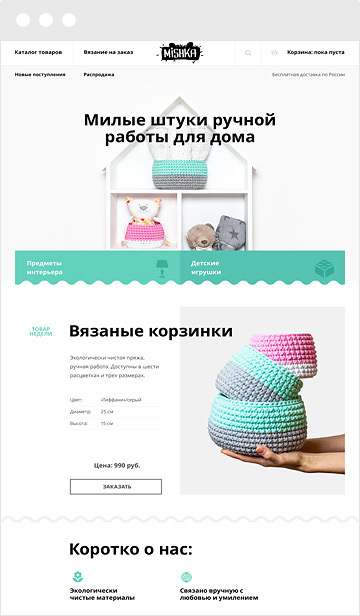
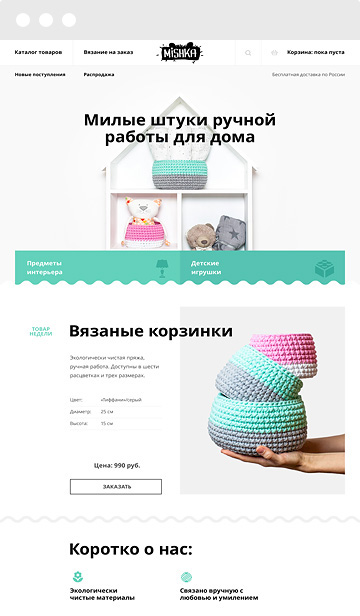
Финальные дополнения

diff --git a/css/style.css b/css/style.css
@@ -180,7 +180,6 @@ body {
     width: 1160px;
     height: 415px;
     margin: 0 auto;
-    font-family: "Roboto", "Arial", sans-serif;
 }
 
 .slider-controls {
@@ -247,7 +246,6 @@ body {
     padding: 16px 0;
     margin-top: 40px;
     font-size: 16px;
-    font-family: "Roboto", "Arial", sans-serif;
     line-height: 18px;
     color: #ffffff;
     text-transform: uppercase;
@@ -295,7 +293,6 @@ body {
 
 .features {
     margin-bottom: 70px;
-    font-family: "Roboto", "Arial", sans-serif;
 }
 
 .features-item {
@@ -359,7 +356,6 @@ body {
     padding-bottom: 36px;
     margin-bottom: 20px;
     margin-top: 82px;
-    font-family: "Roboto", "Arial", sans-serif;
     color: #000000;
     background: url("../img/divide.png") no-repeat top,
         url("../img/divide.png") no-repeat bottom;
@@ -712,7 +708,6 @@ body {
     font-size: 45px;
     font-weight: 600;
     line-height: 45px;
-    font-family: "Roboto", "Arial", sans-serif;
 }
 
 .modal-content label {
@@ -831,7 +826,6 @@ write-us-form {
 .catalog-title {
     padding-top: 10px;
     font-size: 55px;
-    font-family: "Roboto", "Arial", sans-serif;
     line-height: 55px;
     text-align: center;
 }
@@ -844,7 +838,6 @@ write-us-form {
 
 .catalog-content-title {
     font-size: 18px;
-    font-family: "Roboto", "Arial", sans-serif;
     line-height: 30px;
     font-weight: 700;
     text-transform: uppercase;
@@ -857,7 +850,6 @@ write-us-form {
     float: left;
     margin-right: 90px;
     margin-top: 3px;
-    font-family: "Roboto", "Arial", sans-serif;
 }
 
 .range-filter {
@@ -1065,7 +1057,6 @@ input[type="checkbox"]:disabled + label::before {
     float: left;
     width: 810px;
     margin: 20px auto;
-    font-family: "Roboto", "Arial", sans-serif;
 }
 
 .catalog-content-right .catalog-content-title {
@@ -1190,7 +1181,6 @@ input[type="checkbox"]:disabled + label::before {
     cursor: pointer;
     text-align: center;
     vertical-align: middle;
-    font-family: "Roboto", "Arial", sans-serif;
     opacity: 0;
 }
 
